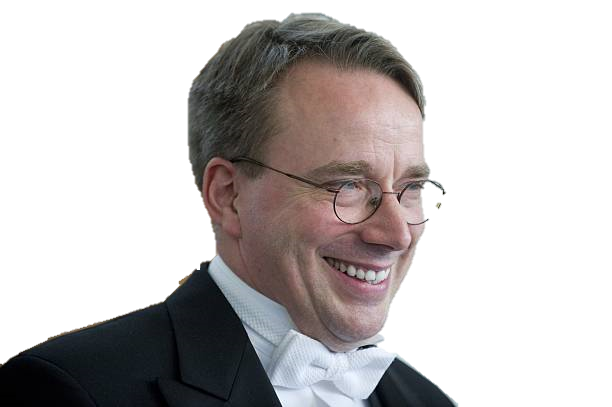
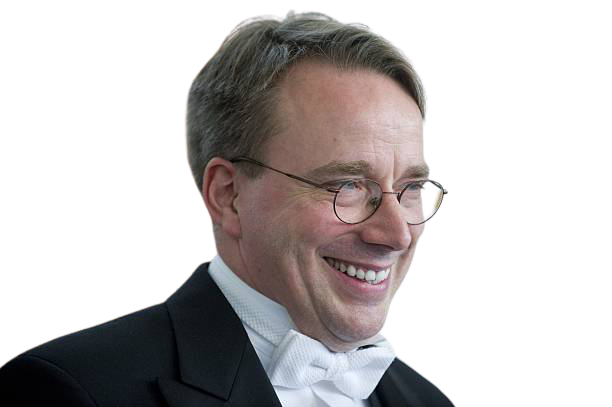
img

diff --git a/index.html b/index.html
@@ -30,7 +30,7 @@
             <div class="img principal">
                 <div class="flex">
                     <div class="img">
-                        <img src="" alt="Img Principal Linus">
+                        <img src="./Assets/img/Linus Torvalds.png" alt="Img Principal Linus">
                     </div>
                     <div class="texto">
                         Texto Falando Sobre a Img
